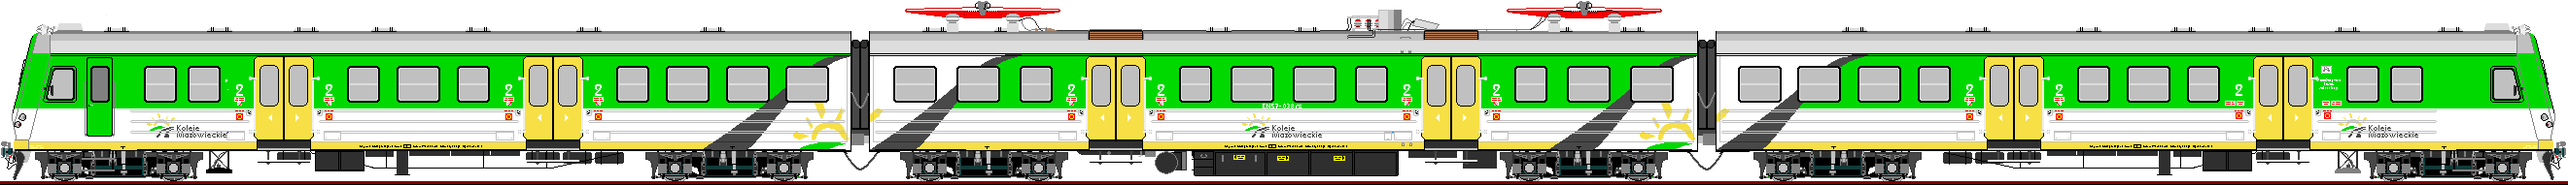
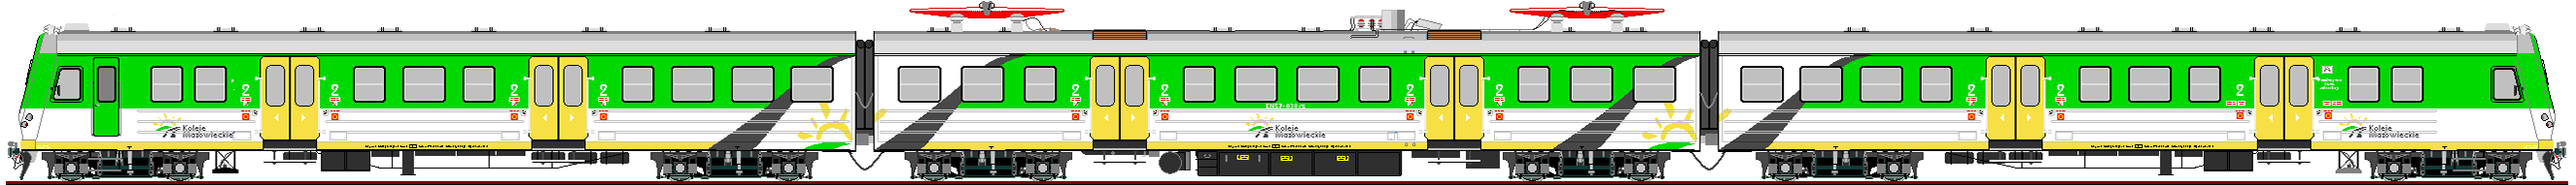
scaled header imgs

diff --git a/style.css b/style.css
@@ -97,3 +97,6 @@ footer{
 .trzyobrazy{
     display: flex;
 }
+main p{
+    margin: 0.5em 0;
+}
